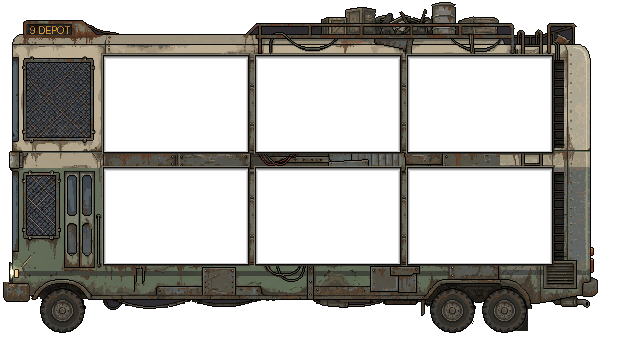
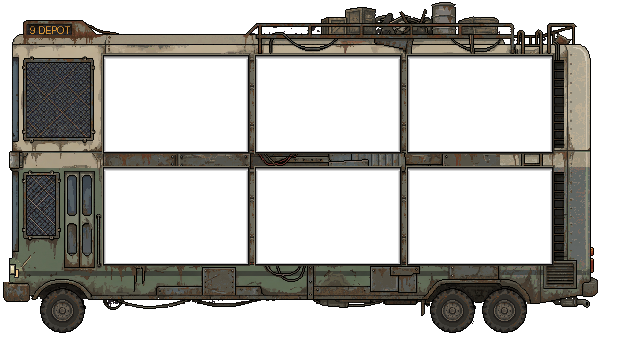
MV-739: Decker round 2: see-through roof rail and underside, rear tyre sliver, new headlight, swinging cables
Claude-Session: https://claude.ai/code/session_01JAwuZXr92RyV8ZkE1tmBfU

diff --git a/tools/art/decker/cleanup.py b/tools/art/decker/cleanup.py
@@ -6,6 +6,9 @@
 # 3) gives every room window a steel frame (MV-739 "add a border to each room"): 1 px black + 2 px riveted steel
 #    around the opening on the shell, and a soft inner shadow on the opening's top / sides (the shell is drawn over
 #    the rooms), so the rooms sit inside the bus instead of looking pasted on.
+# 4) MV-739 round 2: background pockets the flood fill in shell.py could not reach (the PixelLab backdrop colour
+#    46,44,48 left inside the roof rail, between the rear roof ladder rungs and between the cables / tanks under the
+#    chassis, plus the sliver behind the rear tyre) become see-through; the "9 DEPOT" sign face keeps its colour.
 # Rows below the 2-deck roof shift down 112 px in the 3-deck shell (deck3.py inserts a deck), so every
 # coordinate is the 2-deck one + dy.
 import os
@@ -13,6 +16,7 @@ from PIL import Image
 D=os.path.join(os.path.dirname(os.path.abspath(__file__)),"../../../assets/vehicles/decker_v3")
 WHEELS=((62.5,310.0),(452.5,310.0),(504.5,310.0)); R=23.0
 OUT=(8,8,10,255)
+BGC=(46,44,48)
 def in_wheel(x,y):
     return any((x+.5-cx)**2+(y+.5-cy)**2<=R*R for cx,cy in WHEELS)
 X0,Y0,FH,CW,CH=104,56,112,144,96
@@ -43,21 +47,47 @@ def ring(px,x,y,d,tl,x0,y0,x1,y1):
     if px[x,y][3]==0 or sum(px[x,y][:3])>360: px[x,y]=STEEL   # d=3 only fills sky / pale body, keeps beams
 def blend(px,x,y,a):
     if px[x,y][3]==0: px[x,y]=(8,6,6,a)
+# MV-739 round 2: a new headlight drawn in code. The nose is rebuilt flat (x 9 = outline, body paint behind it) over the
+# old glow blob, then an old bus headlamp: square housing 7x10 with a steel bezel and a pale lens, its top-left lit;
+# the amber indicator next to it (x 15-18) stays. AmbulanceMotion's "head" glow sits on the lens centre (12.5, 269.5).
+HL=dict(x0=9,y0=264,w=7,h=11)
+PAINT=((110,120,94),(108,118,93),(104,114,90),(98,107,85))
+def headlight(px,dy):
+    for y in range(258,282):                     # flat nose: outline column + body paint
+        for x in range(9,15):
+            if x==9: px[x,y+dy]=OUT
+            elif y==258 and x<12: px[x,y+dy]=OUT
+            elif not (x==14 and 269<=y<=277): px[x,y+dy]=PAINT[(x+y)%4]+(255,)
+    x0,y0,w,h=HL["x0"],HL["y0"],HL["w"],HL["h"]
+    for y in range(y0,y0+h):
+        for x in range(x0,x0+w):
+            e=x in (x0,x0+w-1) or y in (y0,y0+h-1)
+            b=x in (x0+1,x0+w-2) or y in (y0+1,y0+h-2)
+            if e: c=OUT
+            elif b: c=(140,134,114,255) if (y==y0+1 or x==x0+1) else (70,66,56,255)
+            else:
+                lx,ly=x-(x0+2),y-(y0+2)          # lens 3x7
+                c=(255,252,232,255) if (lx==0 and ly<=1) else ((236,228,184,255) if ly<4 else (204,192,146,255))
+            px[x,y+dy]=c
+    px[x0+w-1,y0+h+dy]=OUT                       # mounting bolt shadow under the housing
 def clean(path,dy,floors):
     im=Image.open(path).convert("RGBA"); W,H=im.size; px=im.load(); clear=(0,0,0,0)
     # 1) headlight plate: columns 0..8, rows 253..281 (the bumper starts at 282)
     for y in range(253,282):
         for x in range(0,9): px[x,y+dy]=clear
-    for y in range(253,282):                     # 1 px dark outline on the new nose edge
-        for x in range(0,16):
-            if px[x,y+dy][3]>0:
-                if sum(px[x,y+dy][:3])>60: px[x,y+dy]=OUT
-                break
+    headlight(px,dy)
     # 2) under the chassis / wheels
     for y in range(301,344):
         for x in range(W):
             if px[x,y+dy][3]==0 or in_wheel(x,y): continue
             if (y>=331 or (x>=528 and y>=309) or (264<=x<=276)): px[x,y+dy]=clear
+            elif y>=304 and 512<=x<=545: px[x,y+dy]=clear      # mudflap shadow wedge behind the rear tyre
+    for y in range(H):                           # 4) background pockets
+        y2=y-dy if y>=56 else y                  # 2-deck coordinate (rows from the top deck down shift by dy)
+        for x in range(W):
+            p=px[x,y]
+            if p[3]==0 or sum(abs(a-b) for a,b in zip(p[:3],BGC))>6: continue
+            if (y<56 and not (18<=y<=38 and 22<=x<=76)) or y2>=286: px[x,y]=clear
     frame(px,W,H,dy,floors)
     im.save(path)
 if __name__=="__main__":

diff --git a/tools/art/decker/anim.py b/tools/art/decker/anim.py
@@ -26,7 +26,7 @@ HEAD = lambda p: sum(p[:3]) > 500
 def one(n):
     im = Image.open(os.path.join(DIR, f"shell_f{n}.png")).convert("RGBA"); W, H = im.size; D = H - 344
     big = lambda bs: max(bs, key=lambda b: b["n"])
-    head = big(amb.blobs(im, HEAD, (13, 266 + D, 20, 280 + D)))
+    head = big(amb.blobs(im, HEAD, (9, 262 + D, 16, 280 + D)))      # the code-drawn lamp (cleanup.py)
     marker = big(amb.blobs(im, AMBER, (588, 244 + D, 596, 256 + D)))
     tails = [b for b in amb.blobs(im, REDL, (588, 257 + D, 596, 272 + D)) if b["n"] >= 4]
     # destination sign: the amber glyphs (sign never moves: it sits above the top deck)
@@ -42,7 +42,9 @@ def one(n):
     return {"size": [W, H], "wheels": [[x, H - WHEEL_DY + 0.0] for x in WHEEL_X], "wheel_r": amb.WHEEL_R,
             "head": head["c"], "marker": marker["c"], "tails": [t["c"] for t in tails],
             "sign": [cols[0], sy0, cols[-1] + 1 - cols[0], sy1 - sy0], "glyphs": [[a, b - a] for a, b in glyphs],
-            "exhaust": [589.0, 303.0 + D]}
+            "exhaust": [589.0, 303.0 + D],
+            # loose cables hanging under the floor: rows below the attach row swing (AmbulanceMotion "swing")
+            "swing": [[100, 300 + D, 166, 14]]}
 
 
 def spin_strip():

diff --git a/README.md b/README.md
@@ -607,6 +607,10 @@ vehicle and the 64x52 rooms in the world stay as they are until the v3 vehicle s
   suspension hops, lurch on start / brake, headlight + a light beam on the road at night, tail / brake lamp, rear amber
   indicator, and the "9 DEPOT" sign lit with the engine (brighter after dark, flickers, drops a glyph now and then,
   blinks with the hazard when the engine is broken); exhaust puffs leave the tail pipe under the rear bumper.
+  Round 2: the PixelLab backdrop colour left in closed pockets (inside the roof rail, between the roof ladder rungs,
+  between the cables / tanks under the chassis) is see-through, the sliver behind the rear tyre is gone, the headlight
+  is redrawn in code (square housing, steel bezel, pale lens), and the loose cables under the floor swing (anim.json
+  `swing` rects: lazy when parked, more with speed, a kick at every road bump).
   GOD → รถบัส 2 ชั้น → ขับ+ไฟ / เบรก (`Dev.decker_anim`).
   Autotest: `--only=decker`.
 
